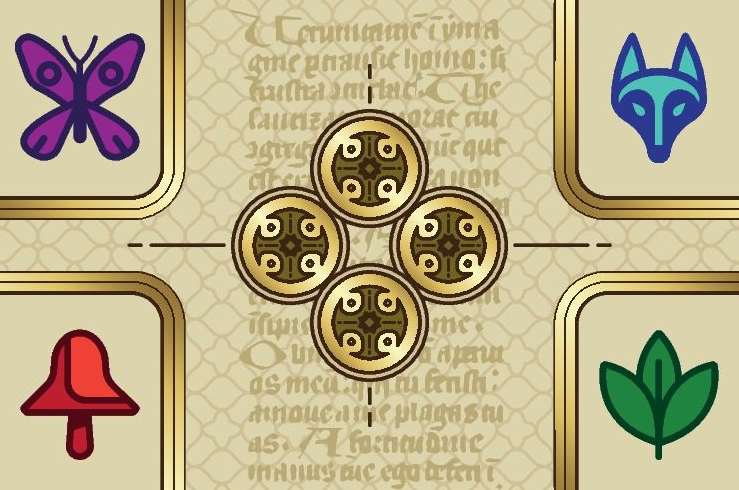
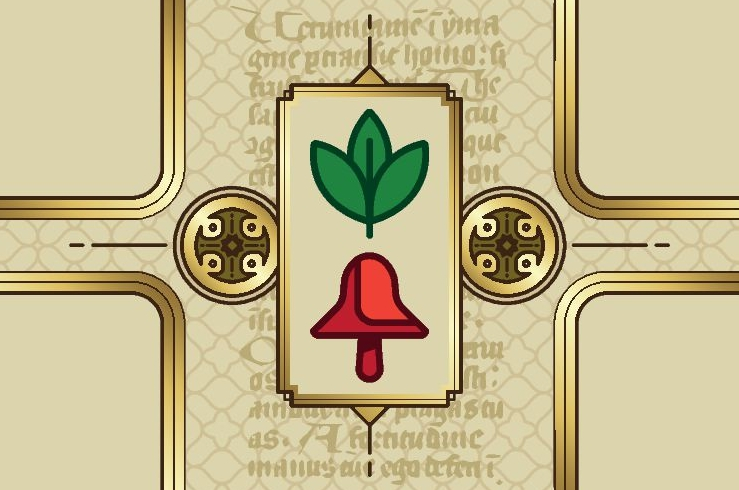
game turn page, added score board and scrollable matrix for placed cards

diff --git a/src/main/resources/it/polimi/ingsw/am24/view/style.css b/src/main/resources/it/polimi/ingsw/am24/view/style.css
@@ -201,3 +201,13 @@
 .deckTop{
     -fx-effect: dropshadow(three-pass-box, rgba(0,0,0,0.8), 10, 0, 0, 5);
 }
+.transparent-scroll-pane {
+    -fx-background: transparent;
+    -fx-background-color: transparent;
+}
+
+.transparent-scroll-pane .scroll-bar {
+    -fx-opacity: 0;
+    -fx-pref-width: 0;
+    -fx-pref-height: 0;
+}

diff --git a/src/main/java/it/polimi/ingsw/am24/view/graphicalUser/controllers/GameBoardController.java b/src/main/java/it/polimi/ingsw/am24/view/graphicalUser/controllers/GameBoardController.java
@@ -9,10 +9,14 @@ import javafx.geometry.Insets;
 import javafx.geometry.Pos;
 import javafx.scene.Cursor;
 import javafx.scene.Node;
+import javafx.scene.canvas.Canvas;
+import javafx.scene.canvas.GraphicsContext;
+import javafx.scene.control.ScrollPane;
 import javafx.scene.image.Image;
 import javafx.scene.image.ImageView;
 import javafx.scene.layout.*;
 import javafx.scene.paint.Color;
+import javafx.scene.shape.Circle;
 import javafx.scene.shape.Rectangle;
 import javafx.scene.Parent;
 import javafx.scene.text.Font;
@@ -30,6 +34,7 @@ public class  GameBoardController extends Generic{
     @FXML private HBox commonGoalsContainer;
     @FXML private VBox rankingContainer;
     @FXML private Pane gameViewContainer;
+    @FXML private StackPane scoreboardContainer;
 
     private GameView gameView;
     private Image image;
@@ -58,6 +63,9 @@ public class  GameBoardController extends Generic{
 
         //GAME BOARD
         drawGameBoard(true);
+
+        //SCORE BOARD
+        drawScoreBoard();
     }
 
     @FXML
@@ -98,6 +106,9 @@ public class  GameBoardController extends Generic{
 
         //COMMON GOALS CARDS
         drawCommonGoals();
+
+        //SCORE BOARD
+        drawScoreBoard();
     }
 
     private void setImageOptionsH(ImageView imageView, int width, int margin) {
@@ -115,7 +126,7 @@ public class  GameBoardController extends Generic{
         imageView.setCache(true);
 
         imageView.setFitWidth(150);
-        VBox.setMargin(imageView, new Insets(10,10,10,10));
+        VBox.setMargin(imageView, new Insets(5,0,5,0));
     }
 
     private void drawGameBoard(boolean clickable) {
@@ -157,11 +168,10 @@ public class  GameBoardController extends Generic{
         if(lastColumn < gameView.getPlayerView().getBoard()[0].length - 2){
             lastColumn += 2;
         }
-
         ArrayList<Placement> order = gameView.getPlayerView().getPlaceOrder();
         double size = Math.max(lastRow-firstRow+1, lastColumn-firstColumn+1);
-        double cellWidth = (double) 1100/size;
-        double cellHeight = 583.5/size;
+        double cellWidth = size >= 7 ? 125 : 800/size;
+        double cellHeight = size >= 7 ? 66.3125 : 424.4/size;
 
         //adding all empty cells
         for (int i = firstRow; i <= lastRow; i++) {
@@ -179,8 +189,7 @@ public class  GameBoardController extends Generic{
             Pane pane = new Pane();
             pane.setPrefSize(cellWidth, cellHeight);
 
-            System.out.println(placement.getCard().getCardId());
-            image = new Image(HelloApplication.class.getResource("images/front/"+placement.getCard().getCardId()+".jpg").toString());
+            image = new Image(HelloApplication.class.getResource("images/"+(placement.getFront() ? "front" : "back")+"/"+placement.getCard().getCardId()+".jpg").toString());
             imageView = new ImageView(image);
             imageView.setPreserveRatio(true);
             imageView.setSmooth(true);
@@ -239,7 +248,12 @@ public class  GameBoardController extends Generic{
             }
         }
 
-        gameViewContainer.getChildren().add(gridPane);
+        ScrollPane scrollPane = new ScrollPane(gridPane);
+        scrollPane.setPrefViewportWidth(800);
+        scrollPane.setPrefViewportHeight(424.4);
+        scrollPane.setPannable(true);
+        scrollPane.getStyleClass().add("transparent-scroll-pane");
+        gameViewContainer.getChildren().add(scrollPane);
     }
 
 
@@ -250,7 +264,7 @@ public class  GameBoardController extends Generic{
             image = new Image(HelloApplication.class.getResource("images/front/"+id+".jpg").toString());
             ImageView iw = new ImageView(image);
             iw.setId(""+i);
-            setImageOptionsH(iw,200,25);
+            setImageOptionsH(iw,150,15);
 
             if(clickable) {
                 iw.getStyleClass().add("clickableCard");
@@ -297,7 +311,7 @@ public class  GameBoardController extends Generic{
         id = gameView.getPlayerView().getSecretCard().getCardId(); //secret goal
         image = new Image(HelloApplication.class.getResource("images/front/"+id+".jpg").toString());
         imageView = new ImageView(image);
-        setImageOptionsH(imageView,200,25);
+        setImageOptionsH(imageView,150,25);
 
         hiddenGoalContainer.getChildren().add(imageView);
         HBox.setHgrow(imageView, Priority.ALWAYS);
@@ -438,6 +452,35 @@ public class  GameBoardController extends Generic{
 
         hidden.getChildren().add(chooseHiddenGoal);
         gameViewContainer.getChildren().add(hidden);
+    }
+
+    private void drawScoreBoard() {
+        image = new Image(HelloApplication.class.getResource("images/misc/scoreboard.png").toString());
+        imageView = new ImageView(image);
+        imageView.setPreserveRatio(true);
+        imageView.setSmooth(true);
+        imageView.setCache(true);
+
+        imageView.setFitWidth(250);
+        Canvas canvas = new Canvas(250, 498.6);
+        GraphicsContext gc = canvas.getGraphicsContext2D();
+
+        double cx = 65;
+        double cy = 450;
+        double x = cx;
+        double y = cy - 10;
+        double radius = 10;
+        drawCircle(gc, x, y, radius, "red");
+        x = cx - 10;
+        y = cy;
+        drawCircle(gc, x, y, radius, "blue");
+        scoreboardContainer.getChildren().addAll(imageView, canvas);
+        StackPane.setMargin(imageView, new Insets(0, 0, 0, 30));
+    }
+
+    private void drawCircle(GraphicsContext gc, double x, double y, double radius, String color) {
+        gc.setFill(Color.valueOf(color));
+        gc.fillOval(x - radius, y - radius, radius * 2, radius * 2);
     }
 
     private void clearContainers() {

diff --git a/src/main/java/it/polimi/ingsw/am24/model/Player.java b/src/main/java/it/polimi/ingsw/am24/model/Player.java
@@ -59,7 +59,7 @@ public class Player {
         }
 
         gameBoard[x][y] = playingHand.get(cardIndex).getCardSide(front);
-        placeOrder.add(new Placement(x,y,playingHand.get(cardIndex).getCardSide(front).getView()));
+        placeOrder.add(new Placement(x,y,playingHand.get(cardIndex).getCardSide(front).getView(),front));
 
         //cover all the covered corners and remove covered symbols from visible symbols
         int coveredCorners = 0;
@@ -101,8 +101,9 @@ public class Player {
 
     public void playInitialCard(boolean front) {
         gameBoard[10][20] = front ? initialcard : initialcard.getBackCard();
-        placeOrder.add(new Placement(10,20,gameBoard[10][20].getView()));
+        placeOrder.add(new Placement(10,20,gameBoard[10][20].getView(),front));
         for(int k = 0; k < 4; k++) {
+            System.out.println(gameBoard[10][20].getCornerByIndex(k).isHidden());
             possiblePlacements[10 + diagonals[k].getKey()][20 + diagonals[k].getValue()] = !gameBoard[10][20].getCornerByIndex(k).isHidden() ? 1 : 0;
             if(gameBoard[10][20].getCornerByIndex(k).getSymbol() != null && !gameBoard[10][20].getCornerByIndex(k).isHidden())
                 visibleSymbols.merge(gameBoard[10][20].getCornerByIndex(k).getSymbol(), 1, Integer::sum);

diff --git a/src/main/java/it/polimi/ingsw/am24/modelView/Placement.java b/src/main/java/it/polimi/ingsw/am24/modelView/Placement.java
@@ -6,11 +6,13 @@ public class Placement implements Serializable {
     private int x;
     private int y;
     private GameCardView card;
+    private boolean front;
 
-    public Placement(int x, int y, GameCardView card) {
+    public Placement(int x, int y, GameCardView card, boolean front) {
         this.x = x;
         this.y = y;
         this.card = card;
+        this.front = front;
     }
 
     public int getX() {
@@ -23,5 +25,9 @@ public class Placement implements Serializable {
 
     public GameCardView getCard() {
         return card;
+    }
+
+    public boolean getFront() {
+        return front;
     }
 }
